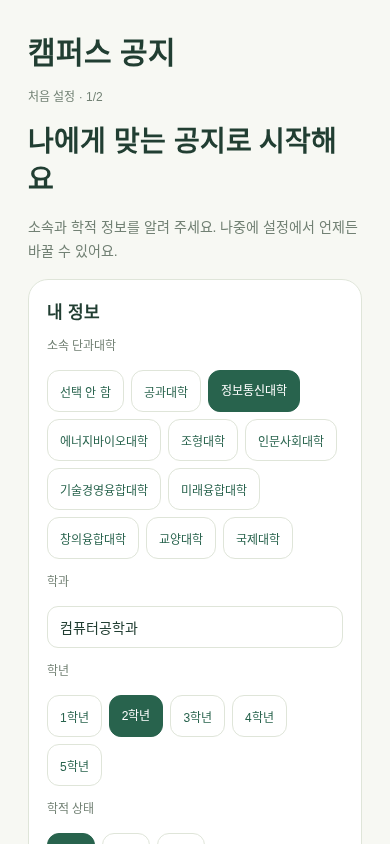
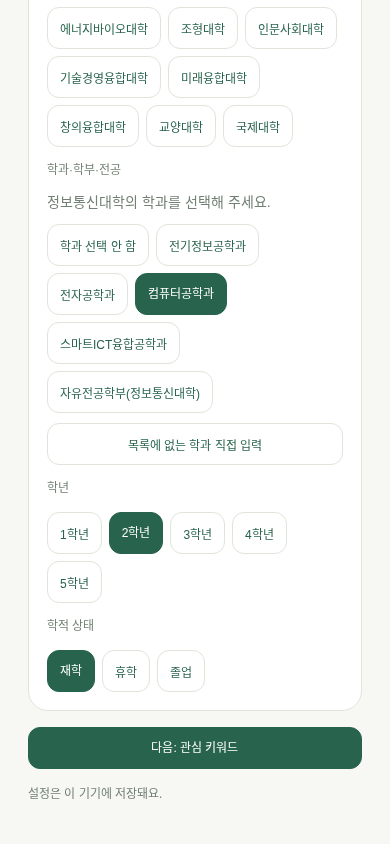
Add college-specific department and liberal studies choices

Changed region(s): [[0.0615, 0.0308, 0.9538, 1.0], [0.6769, 0.0308, 0.8308, 0.0616]]

diff --git a/src/components/ProfileFields.tsx b/src/components/ProfileFields.tsx
@@ -1,4 +1,6 @@
+import { useState } from 'react';
 import { Pressable, Text, TextInput, View } from 'react-native';
+import { departmentsByCollege } from '../domain/campusDepartments';
 import {
   colleges,
   type CampusProfile,
@@ -27,6 +29,12 @@ export function ProfileFields({
   onGradeChange,
   onEnrollmentChange,
 }: ProfileFieldsProps) {
+  const [manualCollege, setManualCollege] = useState<College | null>();
+  const departments = college ? departmentsByCollege[college] : [];
+  const manual =
+    !college ||
+    manualCollege === college ||
+    (!!department && !departments.includes(department));
   return (
     <View style={s.card}>
       <Text style={s.section}>내 정보</Text>
@@ -40,7 +48,12 @@ export function ProfileFields({
               checked: college === value,
             }}
             aria-checked={college === value}
-            onPress={() => onCollegeChange(value)}
+            onPress={() => {
+              if (value === college) return;
+              setManualCollege(undefined);
+              onCollegeChange(value);
+              onDepartmentChange('');
+            }}
             style={[s.button, college === value && s.primary]}
           >
             <Text style={college === value ? s.light : s.buttonText}>
@@ -49,13 +62,63 @@ export function ProfileFields({
           </Pressable>
         ))}
       </View>
-      <Text style={s.muted}>학과</Text>
-      <TextInput
-        accessibilityLabel="학과"
-        value={department}
-        onChangeText={onDepartmentChange}
-        style={s.input}
-      />
+      <View
+        accessibilityRole="radiogroup"
+        accessibilityLabel="학과·학부·전공"
+        testID="department-options"
+        style={{ gap: 10 }}
+      >
+        <Text style={s.muted}>학과·학부·전공</Text>
+        {college ? (
+          <>
+            <Text style={s.description}>{college}의 학과를 선택해 주세요.</Text>
+            <View style={s.row}>
+              {['', ...departments].map((value) => (
+                <Pressable
+                  key={value}
+                  accessibilityRole="radio"
+                  accessibilityLabel={value || '학과 선택 안 함'}
+                  accessibilityState={{ checked: department === value }}
+                  aria-checked={department === value}
+                  style={[s.button, department === value && s.primary]}
+                  onPress={() => {
+                    setManualCollege(undefined);
+                    onDepartmentChange(value);
+                  }}
+                >
+                  <Text style={department === value ? s.light : s.buttonText}>
+                    {value || '학과 선택 안 함'}
+                  </Text>
+                </Pressable>
+              ))}
+            </View>
+            <CampusButton
+              label="목록에 없는 학과 직접 입력"
+              onPress={() => setManualCollege(college)}
+            />
+          </>
+        ) : (
+          <Text style={s.muted}>
+            단과대학을 선택하면 해당 학과 목록이 나와요.
+          </Text>
+        )}
+        {manual && (
+          <>
+            {!!college && (
+              <Text style={s.muted}>
+                목록에 없는 기존 학과명도 그대로 저장할 수 있어요.
+              </Text>
+            )}
+            <TextInput
+              accessibilityLabel="학과"
+              placeholder="학과 직접 입력"
+              value={department}
+              onChangeText={onDepartmentChange}
+              style={s.input}
+            />
+          </>
+        )}
+      </View>
       <Text style={s.muted}>학년</Text>
       <View style={s.row}>
         {([1, 2, 3, 4, 5] as const).map((g) => (

diff --git a/tests/e2e/departments.spec.ts b/tests/e2e/departments.spec.ts
@@ -1,0 +1,69 @@
+import { expect, test } from './fixtures';
+
+test('단과대별 학과·자유전공을 선택하고 대학 변경 시 이전 학과를 해제한다', async ({
+  page,
+}, testInfo) => {
+  await page.goto('/');
+  await page.getByRole('tab', { name: '설정', exact: true }).click();
+  const choose = (name: string) =>
+    page.getByRole('radio', { name, exact: true });
+  const options = page.getByTestId('department-options');
+  await choose('정보통신대학').click();
+  await expect(options.getByRole('radio')).toHaveText([
+    '학과 선택 안 함',
+    '전기정보공학과',
+    '전자공학과',
+    '컴퓨터공학과',
+    '스마트ICT융합공학과',
+    '자유전공학부(정보통신대학)',
+  ]);
+  await choose('자유전공학부(정보통신대학)').click();
+  await expect(
+    page.getByText('설정이 자동 저장됐어요.', { exact: true }),
+  ).toBeVisible();
+  await page.reload();
+  await page.getByRole('tab', { name: '설정', exact: true }).click();
+  await expect(choose('자유전공학부(정보통신대학)')).toBeChecked();
+  await options.scrollIntoViewIfNeeded();
+  await page.screenshot({
+    path: testInfo.outputPath('college-departments.png'),
+  });
+  for (const [college, department] of [
+    ['미래융합대학', '헬스피트니스학과'],
+    ['에너지바이오대학', '바이오메디컬학과'],
+    ['인문사회대학', '문예창작학과'],
+    ['교양대학', 'ST자유전공학부'],
+    ['국제대학', '글로벌자유전공학부'],
+  ] as const) {
+    await choose(college).click();
+    await expect(choose('학과 선택 안 함')).toBeChecked();
+    await expect(
+      options.getByRole('radio', { name: '컴퓨터공학과', exact: true }),
+    ).toHaveCount(0);
+    await choose(department).click();
+    await expect(choose(department)).toBeChecked();
+  }
+  await choose('조형대학').click();
+  await expect(options.getByRole('radio', { name: /자유전공/ })).toHaveCount(0);
+  await page
+    .getByRole('button', { name: '목록에 없는 학과 직접 입력', exact: true })
+    .click();
+  await page
+    .getByRole('textbox', { name: '학과', exact: true })
+    .fill('이전 학과명');
+  await expect(
+    page.getByText('설정이 자동 저장됐어요.', { exact: true }),
+  ).toBeVisible();
+  await page.reload();
+  await page.getByRole('tab', { name: '설정', exact: true }).click();
+  await expect(
+    page.getByRole('textbox', { name: '학과', exact: true }),
+  ).toHaveValue('이전 학과명');
+  await choose('도예학과').click();
+  await expect(
+    page.getByRole('textbox', { name: '학과', exact: true }),
+  ).toHaveCount(0);
+  // Re-selecting the same college must not erase a valid department.
+  await choose('조형대학').click();
+  await expect(choose('도예학과')).toBeChecked();
+});

diff --git a/src/domain/campusDepartments.ts b/src/domain/campusDepartments.ts
@@ -1,0 +1,87 @@
+import type { College } from './campusProfile';
+
+// 학교 대학소개 표기 기준. 확인일·자유전공 보완 출처는 개발 가이드 참고.
+export const departmentsByCollege: Record<College, readonly string[]> = {
+  공과대학: [
+    '기계시스템공학부(지능형로봇전공)',
+    '기계시스템공학부(미래자동차전공)',
+    '기계공학과',
+    '안전공학과',
+    '신소재공학과',
+    '건설시스템공학과',
+    '건축학부(건축공학전공)',
+    '건축학부(건축학전공)',
+    '건축기계설비공학과',
+    '기계시스템디자인공학과',
+    '기계·자동차공학과',
+    '자유전공학부(공과대학)',
+  ],
+  정보통신대학: [
+    '전기정보공학과',
+    '전자공학과',
+    '컴퓨터공학과',
+    '스마트ICT융합공학과',
+    '자유전공학부(정보통신대학)',
+  ],
+  에너지바이오대학: [
+    '화공생명공학과',
+    '환경공학과',
+    '식품생명공학과',
+    '정밀화학과',
+    '스포츠과학과',
+    '안경광학과',
+    '바이오메디컬학과',
+    '양자융합물리학과',
+    '자유전공학부(에너지바이오대학)',
+  ],
+  조형대학: [
+    '디자인학과(산업디자인전공)',
+    '디자인학과(시각디자인전공)',
+    '도예학과',
+    '금속공예디자인학과',
+    '조형예술학과',
+  ],
+  인문사회대학: [
+    '행정학과',
+    '영어영문학과',
+    '문예창작학과',
+    '자유전공학부(인문사회대학)',
+  ],
+  기술경영융합대학: [
+    '산업공학과(산업정보시스템전공)',
+    '산업공학과(ITM전공)',
+    'MSDE학과',
+    '경영학과(경영학전공)',
+    '경영학과(글로벌테크노경영전공)',
+    '자유전공학부(기술경영융합대학)',
+  ],
+  미래융합대학: [
+    '융합기계공학과',
+    '건설환경융합공학과',
+    '헬스피트니스학과',
+    '문화예술학과',
+    '영어과',
+    '벤처경영학과',
+    '정보통신융합공학과',
+    '자유전공학부(미래융합대학)',
+  ],
+  창의융합대학: [
+    '인공지능응용학과',
+    '지능형반도체공학과',
+    '미래에너지융합학과',
+    '자유전공학부(창의융합대학)',
+  ],
+  교양대학: [
+    'ST자유전공학부',
+    '인문사회교양학부',
+    '자연과학부',
+    '융합교양학부',
+  ],
+  국제대학: [
+    '글로벌기초교육학부',
+    '글로벌자유전공학부',
+    '글로벌한국어문화학과',
+    '글로벌IT컨버전스학과',
+    'AI·미디어학과',
+  ],
+};

diff --git a/tests/e2e/initial_setup.spec.ts b/tests/e2e/initial_setup.spec.ts
@@ -15,9 +15,7 @@ test('첫 실행 설정과 키워드는 저장되고 재실행 시 설정을 반
     page.getByText('나에게 맞는 공지로 시작해요', { exact: true }),
   ).toBeVisible();
   await page.getByRole('radio', { name: '정보통신대학', exact: true }).click();
-  await page
-    .getByRole('textbox', { name: '학과', exact: true })
-    .fill('컴퓨터공학과');
+  await page.getByRole('radio', { name: '컴퓨터공학과', exact: true }).click();
   await page.getByRole('button', { name: '2학년', exact: true }).click();
   await page.screenshot({
     path: testInfo.outputPath('initial-profile.png'),
@@ -33,8 +31,8 @@ test('첫 실행 설정과 키워드는 저장되고 재실행 시 설정을 반
   await page.getByRole('button', { name: '키워드 추가', exact: true }).click();
   await page.getByRole('button', { name: '이전', exact: true }).click();
   await expect(
-    page.getByRole('textbox', { name: '학과', exact: true }),
-  ).toHaveValue('컴퓨터공학과');
+    page.getByRole('radio', { name: '컴퓨터공학과', exact: true }),
+  ).toBeChecked();
   await page
     .getByRole('button', { name: '다음: 관심 키워드', exact: true })
     .click();
@@ -54,8 +52,8 @@ test('첫 실행 설정과 키워드는 저장되고 재실행 시 설정을 반
   await page.reload();
   await page.getByRole('tab', { name: '설정', exact: true }).click();
   await expect(
-    page.getByRole('textbox', { name: '학과', exact: true }),
-  ).toHaveValue('컴퓨터공학과');
+    page.getByRole('radio', { name: '컴퓨터공학과', exact: true }),
+  ).toBeChecked();
   await expect(
     page.getByRole('radio', { name: '정보통신대학', exact: true }),
   ).toBeChecked();

diff --git a/tests/e2e/keywords.spec.ts b/tests/e2e/keywords.spec.ts
@@ -51,12 +51,13 @@ test('소속 단과대학과 내 정보 및 키워드가 새로고침 후에도 
     name: '정보통신대학',
     exact: true,
   });
-  const department = page.getByRole('textbox', { name: '학과', exact: true });
+  const department = page.getByRole('radio', {
+    name: '전자공학과',
+    exact: true,
+  });
   await settings.click();
   await college.click();
-  await department.fill('전자');
-  await department.fill('전자공학');
-  await department.fill('전자공학과');
+  await department.click();
   await page.getByRole('textbox', { name: '직접 키워드 입력' }).fill('멘토링');
   await page.getByRole('button', { name: '키워드 추가', exact: true }).click();
   await expect(
@@ -68,7 +69,7 @@ test('소속 단과대학과 내 정보 및 키워드가 새로고침 후에도 
   await page.reload();
   await settings.click();
   await expect(college).toBeChecked();
-  await expect(department).toHaveValue('전자공학과');
+  await expect(department).toBeChecked();
   await expect(
     page.getByRole('button', { name: '멘토링', exact: true }),
   ).toBeVisible();

diff --git a/docs/campus_notice_development_guide.md b/docs/campus_notice_development_guide.md
@@ -90,6 +90,18 @@ npm run collect:smoke
 
 기기에서는 `npm run start`로 실행하고 **설정 → 개발자 도구 → T02 수집 검증 열기 → 두 게시판 수집 확인**을 누른다. 진입 버튼은 개발 모드에만 표시한다. 검증 화면은 `/dev/collection`이며 결과를 DB에 저장하지 않는다. 웹 통합 테스트는 실제 HTML fixture를 네트워크 응답으로 주입하므로 Android fetch·TLS·네이티브 해시 검증을 대신하지 않는다.
 
+### 2.1 단과대학별 학과 선택
+
+초기 설정과 설정 탭은 `src/components/ProfileFields.tsx`를 공유한다. 단과대학을 선택하면 `src/domain/campusDepartments.ts`의 해당 학과·학부·전공만 표시한다. 다른 단과대학으로 바꾸면 이전 학과를 해제하고, 같은 단과대학을 다시 누르면 현재 학과를 유지한다. 목록에 없는 기존 입력값은 보존하며 **목록에 없는 학과 직접 입력**으로 수정할 수 있다. 단과대학 미선택 상태에서도 직접 입력을 지원한다.
+
+2026-11-14에 아래 공식 출처를 확인했다. 학과명은 사용자 요청에 따라 **학교 대학소개 페이지 표기로 통일**한다. 학과별 홈페이지에서 다른 이름을 사용하더라도 두 이름을 병기하지 않는다. 예를 들어 정보통신대학은 전기정보공학과·전자공학과·컴퓨터공학과·스마트ICT융합공학과와 자유전공학부(정보통신대학)를 제공한다. 이 목록은 소속 선택용이며, 자유전공 학생의 전공 진입 가능 학과를 판정하는 자료가 아니다.
+
+- [학교 대학소개](https://www.seoultech.ac.kr/univ/univ/intro/): 10개 단과대학의 학과·학부·전공 표기. 공과대학에서 존속 중으로 안내하는 기존 학과와 계약학과도 포함하며, 전공이 나뉜 학부·학과는 전공까지 구분한다.
+- [교양대학 자유전공 안내](https://liberal.seoultech.ac.kr/specialty/st/specialty/): ST자유전공과 단과대학별 자유전공의 구분. 공식 명칭인 ‘자유전공학부’를 사용한다.
+- [학교 학칙 별표 1](https://www.seoultech.ac.kr/storage/www/rules/53205/SNUST1732605565984.pdf): 자유전공학부가 설치된 7개 단과대학과 교양대학의 ST자유전공학부를 보완 확인한다. 개편된 일반 학과명은 이 과거 문서보다 학교 대학소개를 우선한다. 조형대학에 별도 자유전공학부를 임의로 추가하지 않는다.
+
+`tests/e2e/departments.spec.ts`에서 단과대별 목록 교체, 자유전공 저장·재실행, 기존 입력값 유지와 대학 변경 시 학과 해제를 검증한다. 새 학과 선택 UI의 Android 실기기 확인은 별도로 필요하다.
+
 ## 3 설정과 비밀 정보
 
 자동 테스트에는 API 키나 계정이 필요 없다. 실제 AI 호출은 Worker 비밀 설정의 Gemini 키를 사용한다. 로컬 CLI의 시연 토큰은 `.env.worker-client`에 보관하고 서버에는 해시와 만료만 전달한다. 기기에서는 설정의 AI 시연 토큰 입력을 통해 SecureStore에 저장한다. 웹 검증의 토큰은 메모리에만 유지하며 새로고침하면 사라진다. `.env`·`.dev.vars`의 실제 값은 커밋하지 않는다.

diff --git a/README.md b/README.md
@@ -26,7 +26,7 @@ AI 분석에서 확인되지 않은 정보는 원문을 통해 확인할 수 있
 
 ## 3. 사용 흐름
 
-1. **내 정보 설정** — 첫 실행에서 학과·학년·학적 상태와 관심 키워드를 입력합니다.
+1. **내 정보 설정** — 첫 실행에서 단과대학을 고른 뒤 해당 학과·자유전공학부를 선택하고, 학년·학적 상태와 관심 키워드를 설정합니다.
 2. **공지 가져오기** — 설정에서 AI 시연 토큰을 등록하고 맞춤 공지를 새로고침합니다.
 3. **나에게 맞는 공지 발견** — 분석이 완료된 공지의 요약과 조건을 살펴봅니다. 전체 공지 보기로도 탐색할 수 있습니다.
 4. **관심 저장과 준비** — 관심 있는 공지를 저장하고 준비물 체크리스트를 채웁니다.
